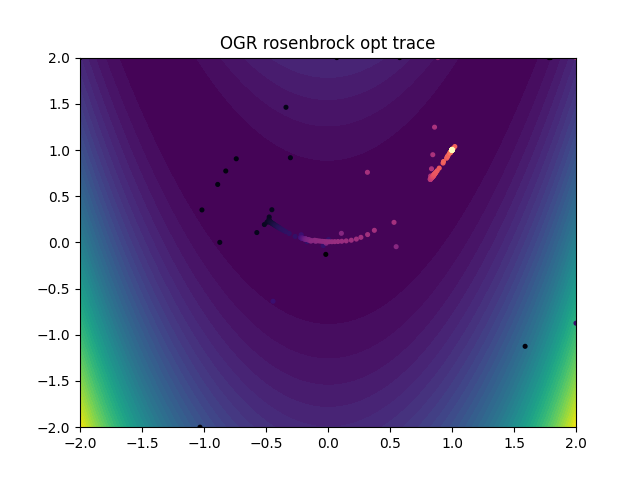
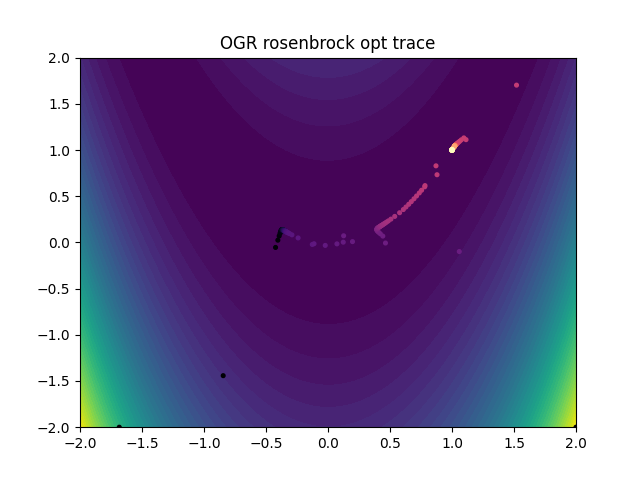
traces with out linesearch

Changed region(s): [[0.4062, 0.4375, 0.625, 0.5312], [0.6562, 0.2812, 0.75, 0.4062], [0.625, 0.4062, 0.6562, 0.4375]]

diff --git a/src/optim/ogr_bfgs_bench.py b/src/optim/ogr_bfgs_bench.py
@@ -430,7 +430,7 @@ if __name__ == "__main__":
         seed=42,
         device="cpu",
         dtype=torch.float64,
-        is_linesearch=True,
+        is_linesearch=False,
         print_trace=True,
     )
     run_suite(CONFIG)
